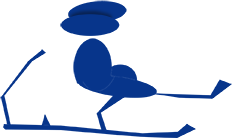
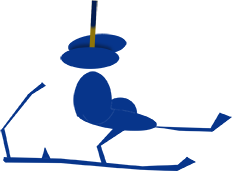
Merge origin/master
Conflicts:
	public_html/main.html

Changed region(s): [[0.0, 0.0, 1.0, 1.0]]

diff --git a/public_html/main.html b/public_html/main.html
@@ -84,13 +84,17 @@ const checkpoint_dist = 1000;
 /*helicopter position, speed & rope*/
 //                  left,top,width,height,vx,vy,ax,ay, ang, vang, aang, name
 heli = new helicop(60, 300, 50, 25, 0, 0, 0, 0.2,0,0,0, "helicop");
-//parts de l'helicopter
+//parts de l'helicòpter
+
+pilot1 = new rectvol(0, 0,20, 40, 0, 0, 0, 0, 0,0,0, "pilot1");
+cabina1 = new rectvol(0, 0, 30, 30, 0, 0, 0, 0, 0,0,0, "cabina1");
 helix1 = new rectvol(0, 0, 150, 25, 0, 0, 0, 0, 0,0,0, "helix1");
 helix2 = new rectvol(0,0, 40, 50, 0, 0, 0, 0, 0,0,0, "helix2");
 cuah = new rectvol(-2, 0, 100, 55, 0, 0, 0, 0, 0,0,0, "cuah");
-cosheli = new rectvol(0, 0, 80, 65, 0, 0, 0, 0, 0,0,0, "cosheli");
+cosheli = new rectvol(0, 0, 80, 75, 0, 0, 0, 0, 0,0,0, "cosheli");
 
-
+pilot1_cp = new rectvol(); pilot1_cp.naiveCopy(pilot1);
+cabina1_cp = new rectvol(); cabina1_cp.naiveCopy(cabina1);
 helix1_cp = new rectvol();  helix1_cp.naiveCopy(helix1);
 helix2_cp = new rectvol();  helix2_cp.naiveCopy(helix2);
 cuah_cp = new rectvol();    cuah_cp.naiveCopy(cuah);
@@ -199,6 +203,8 @@ function restart() {
         cadena.forEach(element => {element.ang_min = -90; element.ang_max=90});
 
         
+        pilot1.naiveCopy(pilot1_cp);
+        cabina1.naiveCopy(cabina1_cp);
         helix1.naiveCopy(helix1_cp);
         helix2.naiveCopy(helix2_cp);
         cuah.naiveCopy(cuah_cp);
@@ -350,6 +356,8 @@ function setwidths() {
     helix2.setwidths();
     cuah.setwidths();
     cosheli.setwidths();
+    pilot1.setwidths();
+    cabina1.setwidths();
     
     enemic1.setwidths();
     human.setwidths();
@@ -369,6 +377,8 @@ function draw() {
     helix2.draw();
     cuah.draw();
     cosheli.draw();
+    pilot1.draw();
+    cabina1.draw();
     
     enemic1.draw("rotateY(180deg)");//afegeixo una transformacio al elicopter enemic
     human.draw();
@@ -576,12 +586,17 @@ mol_heli {
    
 
 <div id="helicop" class="mol_heli">
+    <div id="cuah" class="mol_heli_cua"></div>
     <div id="cosheli" class="mol_heli_body">
-        <div class="cara" id="cara">:D</div>  
+         
     </div>
     <div id="helix1" class="mol_heli_helixgran"></div>
     <div id="helix2" class="mol_heli_helixpeque"></div>
-    <div id="cuah" class="mol_heli_cua"></div>
+    
+    <div id="pilot1" class="mol_heli_pilot"></div>
+    <div id="cabina1" class="mol_heli_cabina"></div>
+        <div class="cara" id="cara">:D</div> 
+
 </div>
 
 

diff --git a/public_html/js/function/explosions.js b/public_html/js/function/explosions.js
@@ -28,8 +28,10 @@ function explosiona() {
     
     
     //flying parts of the helicopter
-    helix1.vx=Math.random()*18-9; helix1.vy=Math.random()*18-9;  helix1.vang=Math.random()*30-15;
-    helix2.vx=Math.random()*18-9; helix2.vy=Math.random()*18-9; helix2.vang=Math.random()*60-30;
+    pilot1.vx=Math.random()*9-4; pilot1.vy=Math.random()*10-5;  pilot1.vang=Math.random()*15-7;
+    cabina1.vx=Math.random()*9-4; cabina1.vy=Math.random()*10-5;
+    helix1.vx=Math.random()*10-5; helix1.vy=Math.random()*10-5;  helix1.vang=Math.random()*30-15;
+    helix2.vx=Math.random()*9-4; helix2.vy=Math.random()*18-9; helix2.vang=Math.random()*60-30;
     cuah.vx=Math.random()*20-10; cuah.vy=Math.random()*20-10;  cuah.vang=Math.random()*30;
     heli.vx=-bc1.vx/2; heli.vy+=-5; heli.ay=0.2; 
     segment1.vang = Math.random()*16-8;
@@ -45,6 +47,8 @@ function explosiona() {
 }
 
 function peta() {
+    pilot1.move();
+    cabina1.move();
     helix1.move();
     helix2.move();
     cuah.move();
@@ -52,6 +56,8 @@ function peta() {
     cosheli.move();
     cadena.forEach(element => element.move());
     
+    cabina1.draw();
+    pilot1.draw();
     helix1.draw();
     helix2.draw();
     cuah.draw();

diff --git a/public_html/style/heli.css b/public_html/style/heli.css
@@ -49,7 +49,7 @@
 .cara {   
   position:absolute;
   transform: rotate(90deg);
-  left:20px;
+  left:-20px;
   top:5px;
 }
 .cara2 {   
@@ -111,26 +111,23 @@
      background-repeat: no-repeat;
 }
 
-.mol_heli_partbody2 {   
-    position:absolute;
-    width:7px;
-    height:15px;
-    background-image: url("../pictures/helicopter/mainbody_2part.png");
-    background-size: 15px;
-     background-repeat: no-repeat;
-}
 .mol_heli_cabina { 
     position:absolute;
-    width:15px;
-    height:20px;
+    left:37px;
+    top:10px;
+    width:30px;
+    height:30px;
+    border-radius: 30px;
     opacity:0.5;
-    background-color:skyblue;
+    background-color:aqua;
 }
 .mol_heli_pilot {  
     position:absolute;
-    width:7px;
-    height:15px;
+    left:35px;
+    top:13px;
+    width:20px;
+    height:40px;
     background-image: url("../pictures/helicopter/human.png");
-    background-size: 10px;
+    background-size: 20px;
      background-repeat: no-repeat;
 }
